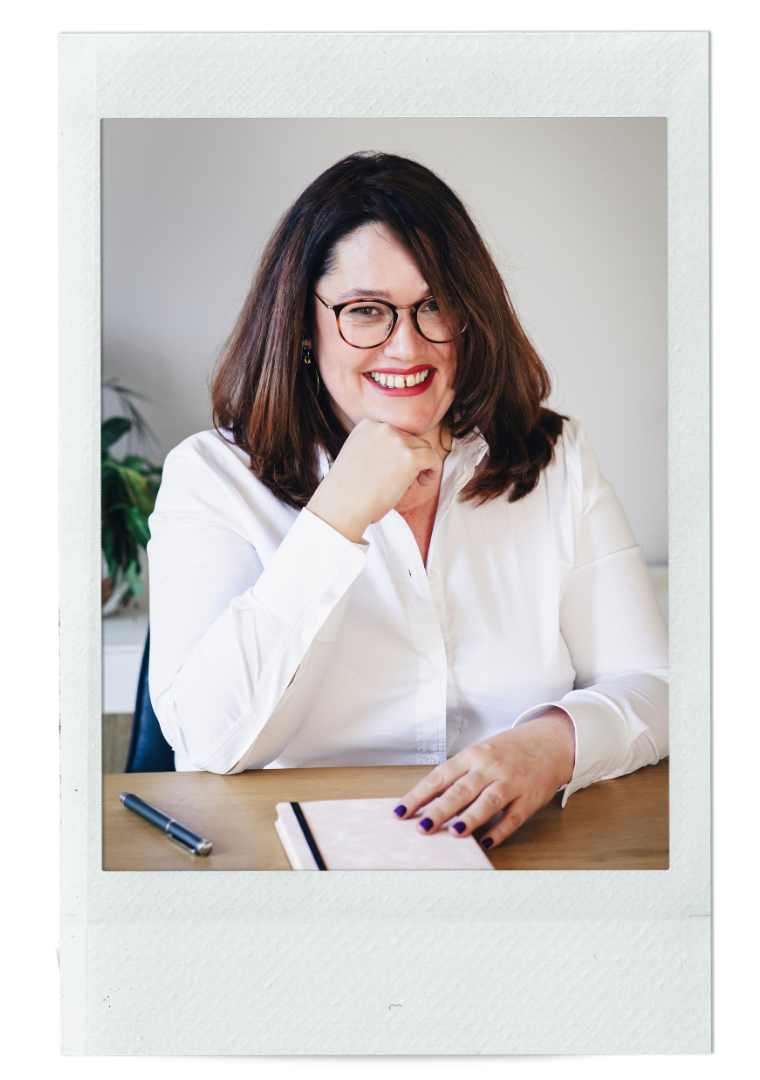
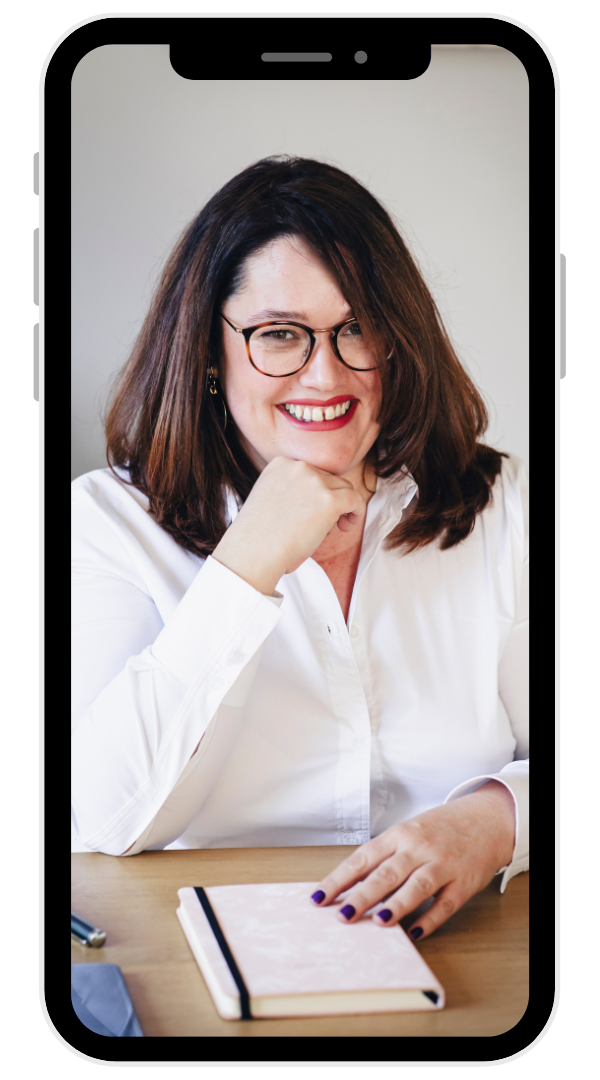
modification du contenu texte

diff --git a/src/pages/Apropos/index.jsx b/src/pages/Apropos/index.jsx
@@ -4,47 +4,27 @@ import Banner from '../../components/Banner';
 
 function Apropos() {
 
-    const pageTitle = "A propos de L'agence Digitale";
-    const bannerText = "Création et développement de site web sur mesure pour artisan et pme à Thonon";
+    const pageTitle = "A propos : Mon expertise dans le secteur du Bâtiment et de l'immobilier";
+    const bannerText = "Découvrez notre histoire, notre engagement dans le secteur du bâtiment et de l'immobilier. Avec une expertise métier solide, nous simplifions la création de sites web pour artisans et PME, en vous offrant des solutions clé en main, rédigées sur mesure pour refléter vos valeurs et votre vision.";
     const bannerImg = require('../../assets/imgPortrait.png');
     const bannerImgClass = "banner__img-presentation"
 
     return (
       <div className='main'>
-        <Banner pageTitle={pageTitle} bannerImg={bannerImg} bannerText={bannerText} bannerImgClass={bannerImgClass}/>
+        <Banner className='apropos__banner'pageTitle={pageTitle} bannerImg={bannerImg} bannerText={bannerText} bannerImgClass={bannerImgClass}/>
         <section className='quisuisje' id='apropos__anchor'>
-                    <h2>Qui-sui-je?</h2>
-                    
-                    <div className='apropos__container'>
+            <h2>Qui suis-je?</h2>
+    
+            <div className='apropos__container'>
 
-                        <div className='apropos__container-text'>
-                            <p>Je suis Aurélie DEMETRIO, créatrice de <strong>L’agence digitale</strong>, une passionnée d’informatique.</p>
-                            <p>Mon parcours atypique de gestionnaire autodidacte dans le domaine du bâtiment a nourri ma curiosité pour le monde numérique, me permettant d'affiner mes compétences numériques tout au long de ma carrière.</p>
-                        </div>
-                    </div>    
-                </section>
-
-                <section className='parcours'>
-                    <h2>Mon parcours</h2>
-                    
-                    <div className='apropos__container'>
-                        <div className='apropos__container-text'>
-                            <p>En 2017, je crée mon premier site web, amorçant ainsi ma reconversion professionnelle en 2020. </p>
-                            <p>Officiellement diplômée depuis 2023, j’ai consolidé mes connaissances et compétences dans le développement web, le design et les services numériques.</p>
-                        </div>
-                    </div>    
-                </section>
-
-                <section className='mesatouts'>
-                    <h2>Mes points forts</h2>
-                    
-                    <div className='apropos__container'>
-                        <div className='apropos__container-text'>
-                            <p>Mes 20 ans d'expérience dans le secteur du bâtiment et de l'immobilier constituent l'un de mes principaux atouts. Cette expertise métier me permet de comprendre parfaitement les besoins et les attentes de mes clients, et de leur offrir des solutions numériques adaptées et efficaces.</p>
-                            <p>Je m'engage à accompagner les petites entreprises, artisans et indépendants dans la construction et la gestion de leur présence en ligne.</p>
-                        </div>
-                    </div>    
-                </section>
+                <div className='apropos__container-text'>
+                    <p>Je suis Aurélie DEMETRIO, la fondatrice de <strong>L’Agence Digitale</strong>. Avec une passion pour l'informatique et une expérience professionnelle de 20 ans dans le domaine du bâtiment et de l'immobilier, j'ai décidé de combiner mes compétences métier avec mon expertise numérique.</p>
+                    <p>Avec plus de deux décennies d'expérience dans le domaine du bâtiment et de l'immobilier, mon parcours professionnel a été marqué par une transition vers le monde numérique. En tant que gestionnaire autodidacte, j'ai développé mes compétences numériques tout au long de ma carrière, nourrissant ma curiosité pour les possibilités offertes par la technologie.</p>
+                    <p>En 2017, j'ai franchi un nouveau cap en créant mon premier site web, amorçant ainsi ma reconversion professionnelle. Cette étape a été suivie d'une décision audacieuse en 2021 : celle de reprendre mes études pour obtenir un diplôme dans le domaine du développement web et du design.</p>
+                    <p>Après avoir obtenu mon diplôme en 2023, renforcé par des compétences en développement web et design, j'ai consolidé mon expertise dans le domaine numérique. Mon parcours atypique et mon expérience variée me confèrent une compréhension approfondie des besoins de mes clients.</p>
+                </div>
+            </div>    
+        </section>
 
                 <section className='mesvaleurs'>
                     <h2>Mes valeurs</h2>
@@ -52,7 +32,8 @@ function Apropos() {
                     <div className='apropos__container'>
                         <div className='apropos__container-text'>
                            <p>Au cœur de mon approche se trouvent l'intégrité, l'engagement et la qualité. Je crois fermement en la transparence et l'honnêteté dans toutes mes interactions professionnelles.</p>
-                           <p>Sensible à la cause environnementale, je m'efforce de réduire l'empreinte écologique de mes activités en proposant des solutions numériques légères et respectueuses de l'éco-index.</p>
+                            <p>L'écoute attentive de nos clients est au cœur de notre approche collaborative. Nous nous engageons à accompagner nos clients à chaque étape de la réalisation de leur projet, en validant régulièrement avec eux pour nous assurer que notre travail répond parfaitement à leurs attentes.</p>
+                           <p>Nous croyons fermement en la qualité de notre travail et en l'importance de fournir des solutions numériques performantes et écologiques. Nous nous efforçons de réduire notre empreinte environnementale en proposant des sites web respectueux de l'éco-index. En utilisant des technologies modernes et légères, nous sommes en mesure de fournir des sites web à la fois performants et respectueux de l'environnement.</p>
                         </div>
                     </div>    
                 </section>
@@ -60,7 +41,7 @@ function Apropos() {
                 <section className='monoffre'>
                     <h2>Offre spéciale pour les artisans et PME du bâtiment et de l'immobilier</h2>
                     
-                    <div className='apropos__container'>
+                    <div className='apropos__container offre-artisan'>
                         <div className='apropos__container-text'>
                             <p>En tant qu'artisan, je comprends l'importance de disposer d'une solution numérique clé en main pour promouvoir votre activité. Avec mon offre spéciale artisan, vous bénéficierez d'une solution tout-en-un comprenant la rédaction de contenu, grâce à mon expertise métier et ma connaissance approfondie du secteur. Nos offres sont conçues sur mesure pour s'adapter à votre budget et votre emploi du temps chargé. Mon objectif est de vous faire gagner du temps et de vous offrir une présence en ligne professionnelle qui vous distingue de la concurrence.</p>
                         </div>

diff --git a/src/sections/Services/index.jsx b/src/sections/Services/index.jsx
@@ -1,5 +1,7 @@
 import React from "react";
 import Card from "../../components/Card";
+import { FontAwesomeIcon } from '@fortawesome/react-fontawesome';
+import { faPlus } from '@fortawesome/free-solid-svg-icons';
 
 const servicesData = require('../../data/serviceData.json');
 
@@ -11,7 +13,20 @@ function Services() {
     <section id='service'>
       <div className="container__services"> 
         <h2>Nos services web sur mesure</h2>
-        <p className='section-text'>Un site web professionnel est un atout précieux pour votre entreprise. Il vous permet de présenter vos produits et services de manière claire et attrayante, d'atteindre de nouveaux clients potentiels, et de renforcer votre crédibilité dans un monde de plus en plus numérique. <br/> Explorez dès maintenant mes différentes offres de création de site web conçues pour répondre à vos besoins spécifiques. Que vous souhaitiez renforcer votre présence en ligne et mettre en valeur votre entreprise de manière efficace et moderne, je suis là pour vous accompagner dans la réalisation de vos objectifs numériques.</p>
+        <div className="container__section">
+          <p className='container__section-text'>Un site web professionnel est un atout précieux pour votre entreprise. Il vous permet de présenter vos produits et services de manière claire et attrayante, d'atteindre de nouveaux clients potentiels, et de renforcer votre crédibilité dans un monde de plus en plus numérique.</p>
+          <p className='container__section-text'>Explorez dès maintenant mes différentes offres de création de site web conçues pour répondre à vos besoins spécifiques. Que vous souhaitiez renforcer votre présence en ligne et mettre en valeur votre entreprise de manière efficace et moderne, je suis là pour vous accompagner dans la réalisation de vos objectifs numériques.</p>
+          <p className='container__section-text'> Notre approche unique vous offre une expérience personnalisée et simplifiée pour concrétiser votre présence en ligne.</p>
+          <h3>Offre clé en main : </h3>
+          <p className='container__section-text'>Notre offre clé en main vous garantit une création de site web sur mesure, prenant en compte vos idées et vos valeurs pour rédiger un contenu authentique qui reflète l'essence de votre entreprise. Grâce à notre équipe expérimentée, vous bénéficiez d'un accompagnement complet tout au long du processus, de la conception graphique à la rédaction de contenu, en passant par le développement sur mesure.</p>
+          <h3>Avantages :</h3>
+          <ul>
+            <li><FontAwesomeIcon className='container__section-icon' icon={faPlus} /> Personnalisation : Chaque site est conçu selon vos besoins spécifiques et votre identité visuelle.</li>
+            <li><FontAwesomeIcon className='container__section-icon' icon={faPlus} />  Simplicité du processus : Nous vous guidons à chaque étape, de la conception à la mise en ligne, pour une expérience fluide et sans stress.</li>
+            <li><FontAwesomeIcon className='container__section-icon' icon={faPlus} /> Accompagnement personnalisé : Notre équipe est à votre écoute pour répondre à vos questions et ajuster le projet selon vos retours.</li>
+            <li><FontAwesomeIcon className='container__section-icon' icon={faPlus} />  Rédaction de contenu : Nous valorisons votre expertise en rédigeant un contenu percutant qui met en avant vos services et valeurs.</li>
+          </ul>
+        </div>
         <div className='container__card'>
           {webServices.map((service, index) => (
             <Card
@@ -28,7 +43,10 @@ function Services() {
 
       <div className="container__services">
         <h2>Autres prestations</h2>
-        <p className='section-text'>Description des autres prestations...</p>
+        <div className="container__section">
+          <p className='container__section-text'>Découvrez également nos autres prestations spécialisées pour renforcer votre présence en ligne et dynamiser votre entreprise sur les réseaux sociaux. Obtenez une charte graphique professionnelle, adaptée à votre logo existant, comprenant une palette de couleurs harmonieuse et des typographies percutantes.</p>
+          <p className='container__section-text'>Dynamisez également votre présence sur Facebook, Instagram et LinkedIn avec des pages professionnelles complètes et attrayantes, intégrant des liens vers votre site web et d'autres informations pertinentes.</p>
+        </div>
         <div className='container__card'>
           {otherServices.map((service, index) => (
             <Card

diff --git a/src/pages/Contact/index.jsx b/src/pages/Contact/index.jsx
@@ -8,8 +8,8 @@ import { faPhone, faEnvelope, faLocationPin } from '@fortawesome/free-solid-svg-
 
 function Contact() {
 
-    const pageTitle = "Contactez L'agence Digitale";
-    const bannerText = "Création et développement de site web sur mesure pour artisan et pme à Thonon";
+    const pageTitle = "Nous contacter";
+    const bannerText = "Prêt à concrétiser votre projet digital ? Contactez-nous dès maintenant pour des conseils experts et une offre clé en main";
     const bannerImg = require('../../assets/imgBanner.jpg');
     const bannerImgClass = "banner__image"
 
@@ -17,7 +17,7 @@ function Contact() {
       <div className='main'>
        <Banner pageTitle={pageTitle} bannerImg={bannerImg} bannerText={bannerText} bannerImgClass={bannerImgClass}/>
             <section id='contact'>
-                <h2>Contactez-nous pour des solutions web personnalisées</h2>
+                <h2>Besoin d'un site web pour votre entreprise du bâtiment ou de l'immobilier ? <br/> Contactez-nous dès aujourd'hui pour commencer</h2>
                 <p className='section-text'>
                 Optimisez votre présence en ligne avec des sites web sur mesure. Que vous soyez un entrepreneur passionné ou une entreprise établie, nous sommes prêts à transformer vos idées en réalité numérique. Contactez-nous aujourd'hui et donnez vie à vos projets digitaux!
                 </p>

diff --git a/src/pages/Realisations/index.jsx b/src/pages/Realisations/index.jsx
@@ -4,8 +4,10 @@ import Banner from '../../components/Banner';
 import Portfolio from '../../sections/Portfolio';
 
 function Realisations() {
-  const pageTitle = "Nos réalisations";
-  const bannerText = "Création et développement de site web sur mesure pour artisan et pme à Thonon";
+  const pageTitle = "Découvrez nos réalisations";
+  const bannerText = "Explorez notre portfolio pour trouver l'inspiration dont vous avez besoin pour votre projet. Chaque réalisation est le fruit d'un travail passionné et créatif, conçu pour mettre en valeur le potentiel unique de chaque client";
+
+
   const bannerImg = require('../../assets/imgBanner.jpg');
   const bannerImgClass = "banner__image"
 

diff --git a/src/pages/Processus/index.jsx b/src/pages/Processus/index.jsx
@@ -4,8 +4,8 @@ import Process from '../../sections/Process';
 
 function Processus() {
 
-    const pageTitle = "Processus de développement";
-    const bannerText = "Création et développement de site web sur mesure pour artisan et pme à Thonon";
+    const pageTitle = "Comment se déroule un projet avec L'agence Digitale?";
+    const bannerText = "Découvrez ma méthode pour créer votre site web en toute sérénité";
     const bannerImg = require('../../assets/imgBanner.jpg');
     const bannerImgClass = "banner__image"
 

diff --git a/src/styles/components/_card.scss b/src/styles/components/_card.scss
@@ -2,7 +2,7 @@
 .container__card{
     display:flex;
     flex-direction: row;
-    justify-content: space-around;
+    justify-content: space-evenly;
     background: $linearGradient3;
     flex-wrap: nowrap;
     gap: 20px;
@@ -29,7 +29,7 @@
     display: flex;
     flex-direction: column;
 
-    background: $darkviolet;
+    background: $darkgreen;
     box-shadow: $box-shadows;
     border-radius: 10px;
     transition: transform 0.3s;

diff --git a/src/styles/pages/_prestations.scss b/src/styles/pages/_prestations.scss
@@ -3,4 +3,29 @@
     justify-content: center;
     flex-direction: column;
     align-items: center;
+}  
+
+
+    .container__section{
+    h3{
+        color: $violet;
+    }
+
+    &-text{
+        text-align: left;
+        font-size: 18px;
+        opacity: 1;
+
+    }
+
+    li{
+        list-style-type: none;
+        font-size: 18px;
+        margin-bottom: 20px;
+    }
+
+    &-icon{
+        color : $violet;
+    }
+
 }

diff --git a/src/components/ContactForm/index.jsx b/src/components/ContactForm/index.jsx
@@ -101,6 +101,7 @@ const emailTemplateContact = process.env.REACT_APP_EMAILJS_TEMPLATE_CONTACT;
         </div>
       ) : (
         <div className='container__form'>
+          <h2>Nous contacter</h2>
             <form className="form" onSubmit={handleSubmit}>
                     <div className="form-group">
                     <label htmlFor="nom">Nom :</label>

diff --git a/src/styles/pages/_accueil.scss b/src/styles/pages/_accueil.scss
@@ -49,7 +49,7 @@
 .home{
     display: flex;
     flex-direction: row;
-    background: $linearGradient;
+    background: $darkgreen;
     padding: 50px;
 
     @include mobile {
@@ -75,7 +75,7 @@
 
         h2{
             margin: 0;
-            color: $violet;
+            color: $green;
         }
 
         p{

diff --git a/src/styles/components/_form.scss b/src/styles/components/_form.scss
@@ -2,10 +2,14 @@
 .container__form{
     display: flex;
     justify-content: center;
+    flex-direction: column;
+    align-items: center;
+
 }
 .contact__form {
     background-color: $darkgreen;
-
+    margin-bottom: 50px;
+    border-radius: 10px;
     
     @include mobile{
         width: 90%;

diff --git a/src/styles/components/_banner.scss b/src/styles/components/_banner.scss
@@ -93,7 +93,13 @@
 }
 
 /*Style Banner Présentation*/
-.banner__img-presentation{
-    width: 200px;
+.apropos__banner{
+    position: relative;
+}
+.banner__img-presentation {
+    max-width: 500px;
+    position: absolute;
+    top: 100px;
+    right: 200px;
 
 }

diff --git a/src/styles/styles.scss b/src/styles/styles.scss
@@ -3,6 +3,7 @@
 @import './utils/typographie';
 @import './bases/body';
 @import './pages/accueil';
+@import './pages/apropos';
 @import './pages/prestations';
 @import './pages/contact';
 @import './components/loading_spinner';
